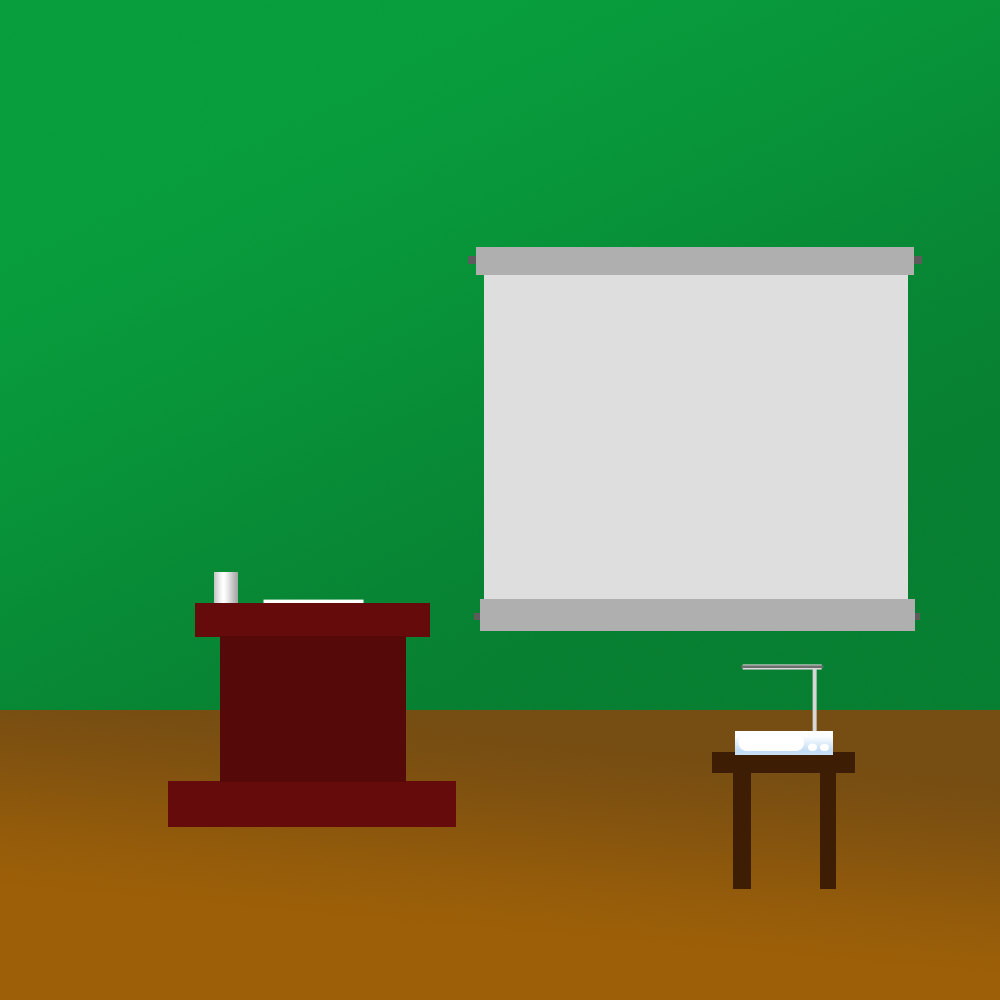
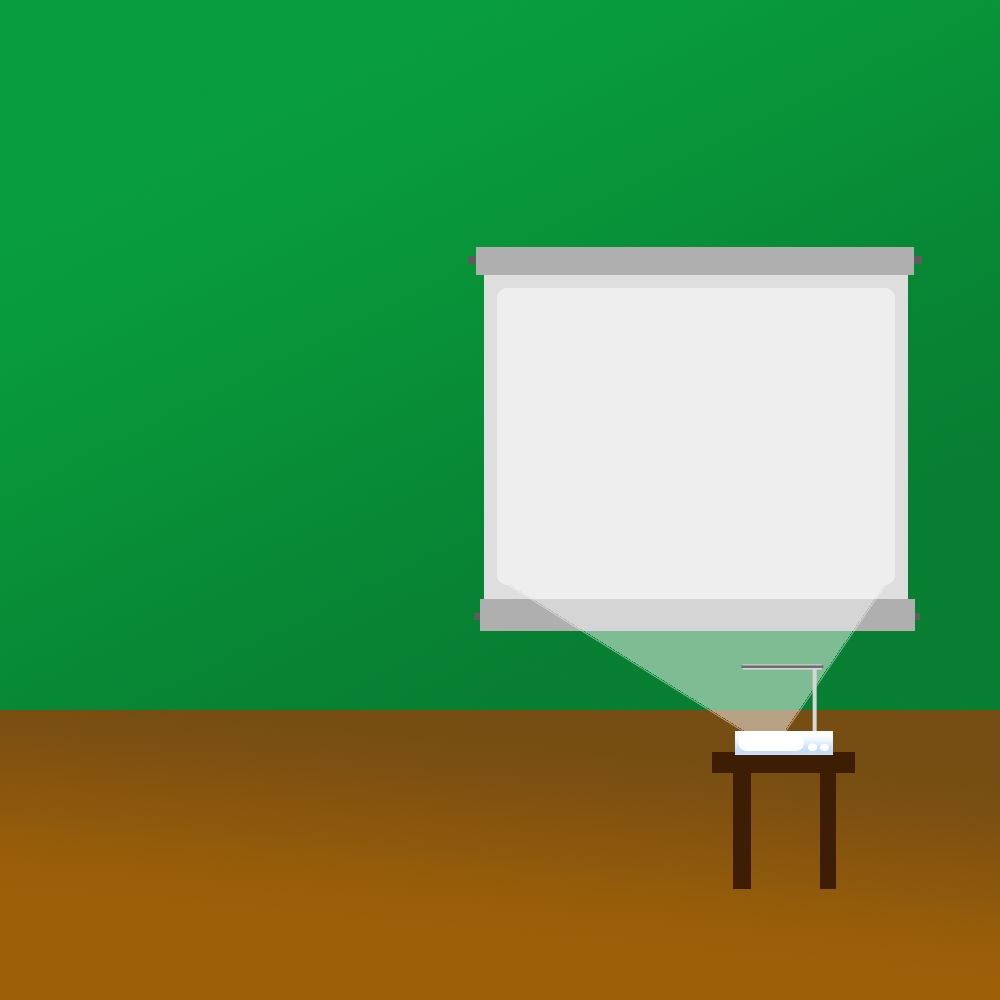
ready to render scene one

Changed region(s): [[0.155, 0.558, 0.465, 0.837], [0.527, 0.589, 0.868, 0.744]]

diff --git a/temp/object/oneman/profile.php b/temp/object/oneman/profile.php
@@ -22,4 +22,15 @@ $v['item_oneman_light'] = array(
 	'event'		=> array(),
 	'name'		=> 'Light from the slide player of the One Man Show');
 
+$v['furniture_oneman_platform'] = array(
+	'type'		=> 'misc',
+	'pos_x'		=> 0.5,
+	'pos_y'		=> -0.3,
+	'scale'		=> 1,
+	'item_x'	=> 0,
+	'item_y'	=> 0,
+	'item'		=> 'furniture/platform001',
+	'event'		=> array(),
+	'name'		=> 'Light from the slide player of the One Man Show');
+
 ?>

diff --git a/temp/scene/profile.php b/temp/scene/profile.php
@@ -6,7 +6,7 @@ else
 	$v['scene']['scene'] = $index_scene;
 
 //	scene info
-$v['scene']['name'] = 'test';		//	name and episode are for file naming
+$v['scene']['name'] = 'oneman';		//	name and episode are for file naming
 $v['scene']['episode'] = 1;			//	which episode of the series
 $v['scene']['res_x'] = 640;
 $v['scene']['res_y'] = 360;

diff --git a/temp/script/oneman_001.php b/temp/script/oneman_001.php
@@ -40,8 +40,9 @@ $v['scene_00001'] = array(
 			),
 		'object'	=> array(
 			'room_oneman_hall',
-			'item_oneman_light',
 			'liuyue',
+			'item_oneman_light',
+			'furniture_oneman_platform',
 			),
 		'script'	=> array(
 			'set cao as kid at 0.6 0.1 size 0.32 ',
